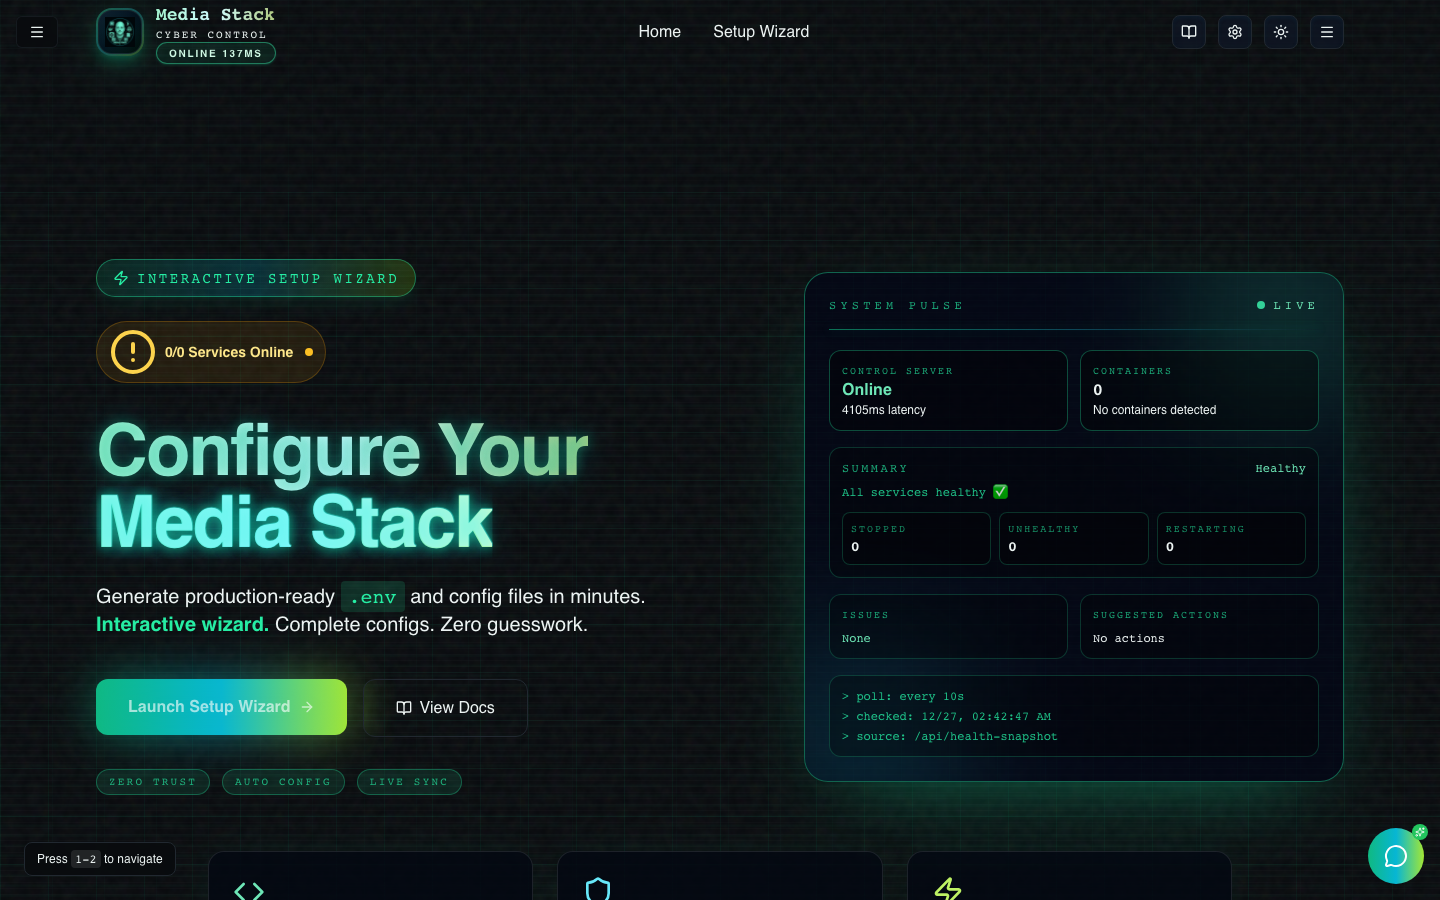
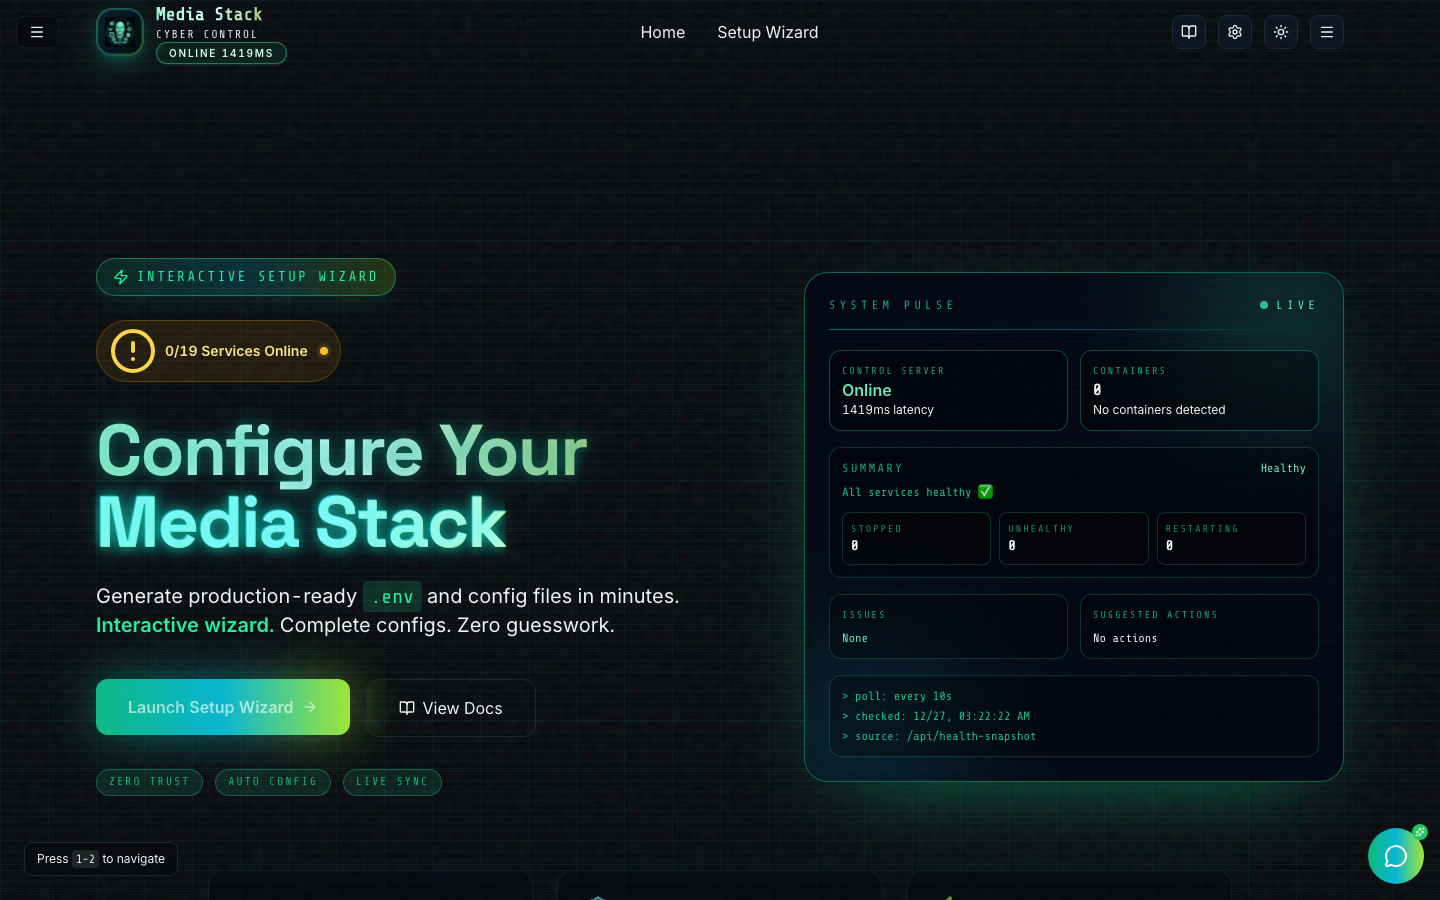
Migrate ModernNavigation to Motion.dev and update screenshots
Replaced framer-motion with Motion.dev (motion/react) in ModernNavigation component. Updated GUI_IMPROVEMENTS.md to reflect 55% Motion.dev adoption progress, now covering hero, navigation, and feature cards. Refreshed all app screenshots to match current UI state.

diff --git a/docs-site/src/components/modern/ModernNavigation.tsx b/docs-site/src/components/modern/ModernNavigation.tsx
@@ -1,5 +1,5 @@
 import { useCallback, useEffect, useMemo, useState } from 'react'
-import { motion, AnimatePresence } from 'framer-motion'
+import { motion, AnimatePresence } from 'motion/react'
 import { Menu, X, Moon, Sun, Settings, BookOpen } from 'lucide-react'
 import { Link } from 'react-router-dom'
 import { useTheme } from '../../hooks/useTheme'

diff --git a/docs/development/GUI_IMPROVEMENTS.md b/docs/development/GUI_IMPROVEMENTS.md
@@ -8,7 +8,7 @@
 
 | # | Improvement | Status | Implementation | Tests | Notes |
 |---|-------------|--------|----------------|-------|-------|
-| 1 | Motion.dev Animations | 🟡 IN PROGRESS | 40% | ⬜ Manual Testing | Hero + feature cards now use Motion.dev; wizard/voice views still on framer-motion |
+| 1 | Motion.dev Animations | 🟡 IN PROGRESS | 55% | ⬜ Manual Testing | Hero, navigation, and feature cards now use Motion.dev; wizard/voice views still on framer-motion |
 | 2 | Shadcn UI System | 🟢 COMPLETED | 100% | ⬜ Manual Testing | ✅ Button, Tooltip, Dialog components added |
 | 3 | CSS Anchor Positioning | 🟢 COMPLETED | 100% | ⬜ Manual Testing | ✅ Enhanced StatusBadge with detailed tooltip |
 | 4 | AI-Powered Smart Forms | 🟢 COMPLETED | 100% | ⬜ Manual Testing | ✅ SmartInput with auto-detect & suggestions |
@@ -25,7 +25,7 @@
 
 **In Progress (1/5):**
 
-- 🟡 **Motion.dev Adoption** - Hero + feature cards migrated to Motion.dev; remaining wizard/assistant flows stay on framer-motion until a safe migration path is proven
+- 🟡 **Motion.dev Adoption** - Hero, navigation bar, and feature cards migrated to Motion.dev; remaining wizard/assistant flows stay on framer-motion until a safe migration path is proven
 
 **Legend:**
 
@@ -1449,7 +1449,7 @@ test.describe('Micro-interactions', () => {
 
 ##### Current State
 
-- Installed `motion` package and migrated the Hero + feature cards to Motion.dev (`Motion.div`/`Motion.h1`), with scroll-linked reveals driven by IntersectionObserver.
+- Installed `motion` package and migrated the Hero + navigation + feature cards to Motion.dev (`motion.div`/`motion.h1`), with scroll-linked reveals driven by IntersectionObserver.
 - Framer Motion remains for wizard/assistant flows (`AnimatePresence`, step transitions, magnetic buttons); these need bespoke rewrites.
 
 ##### Why Full Migration Is Still Pending
